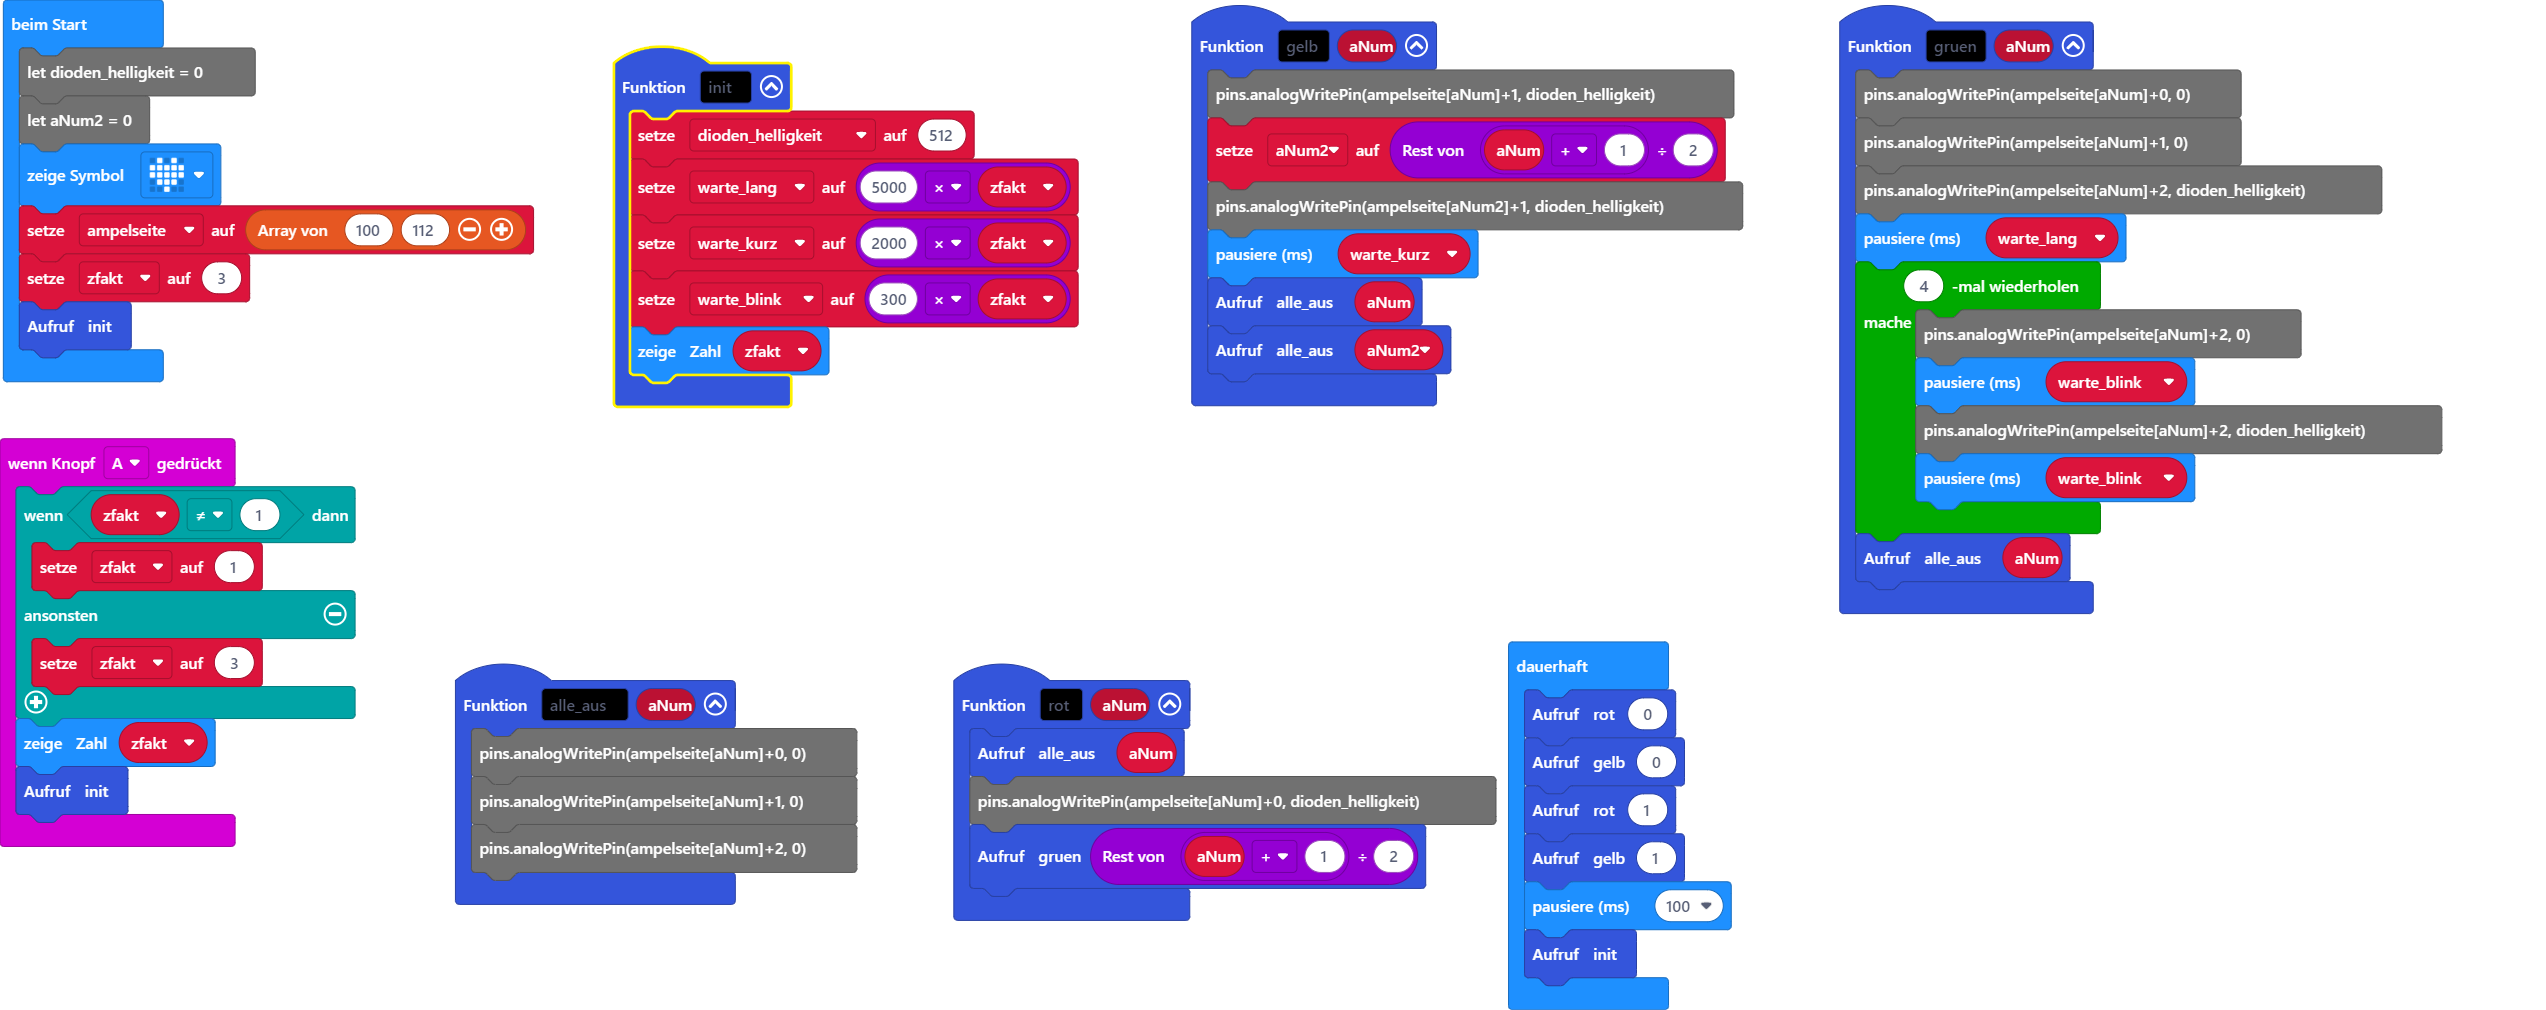
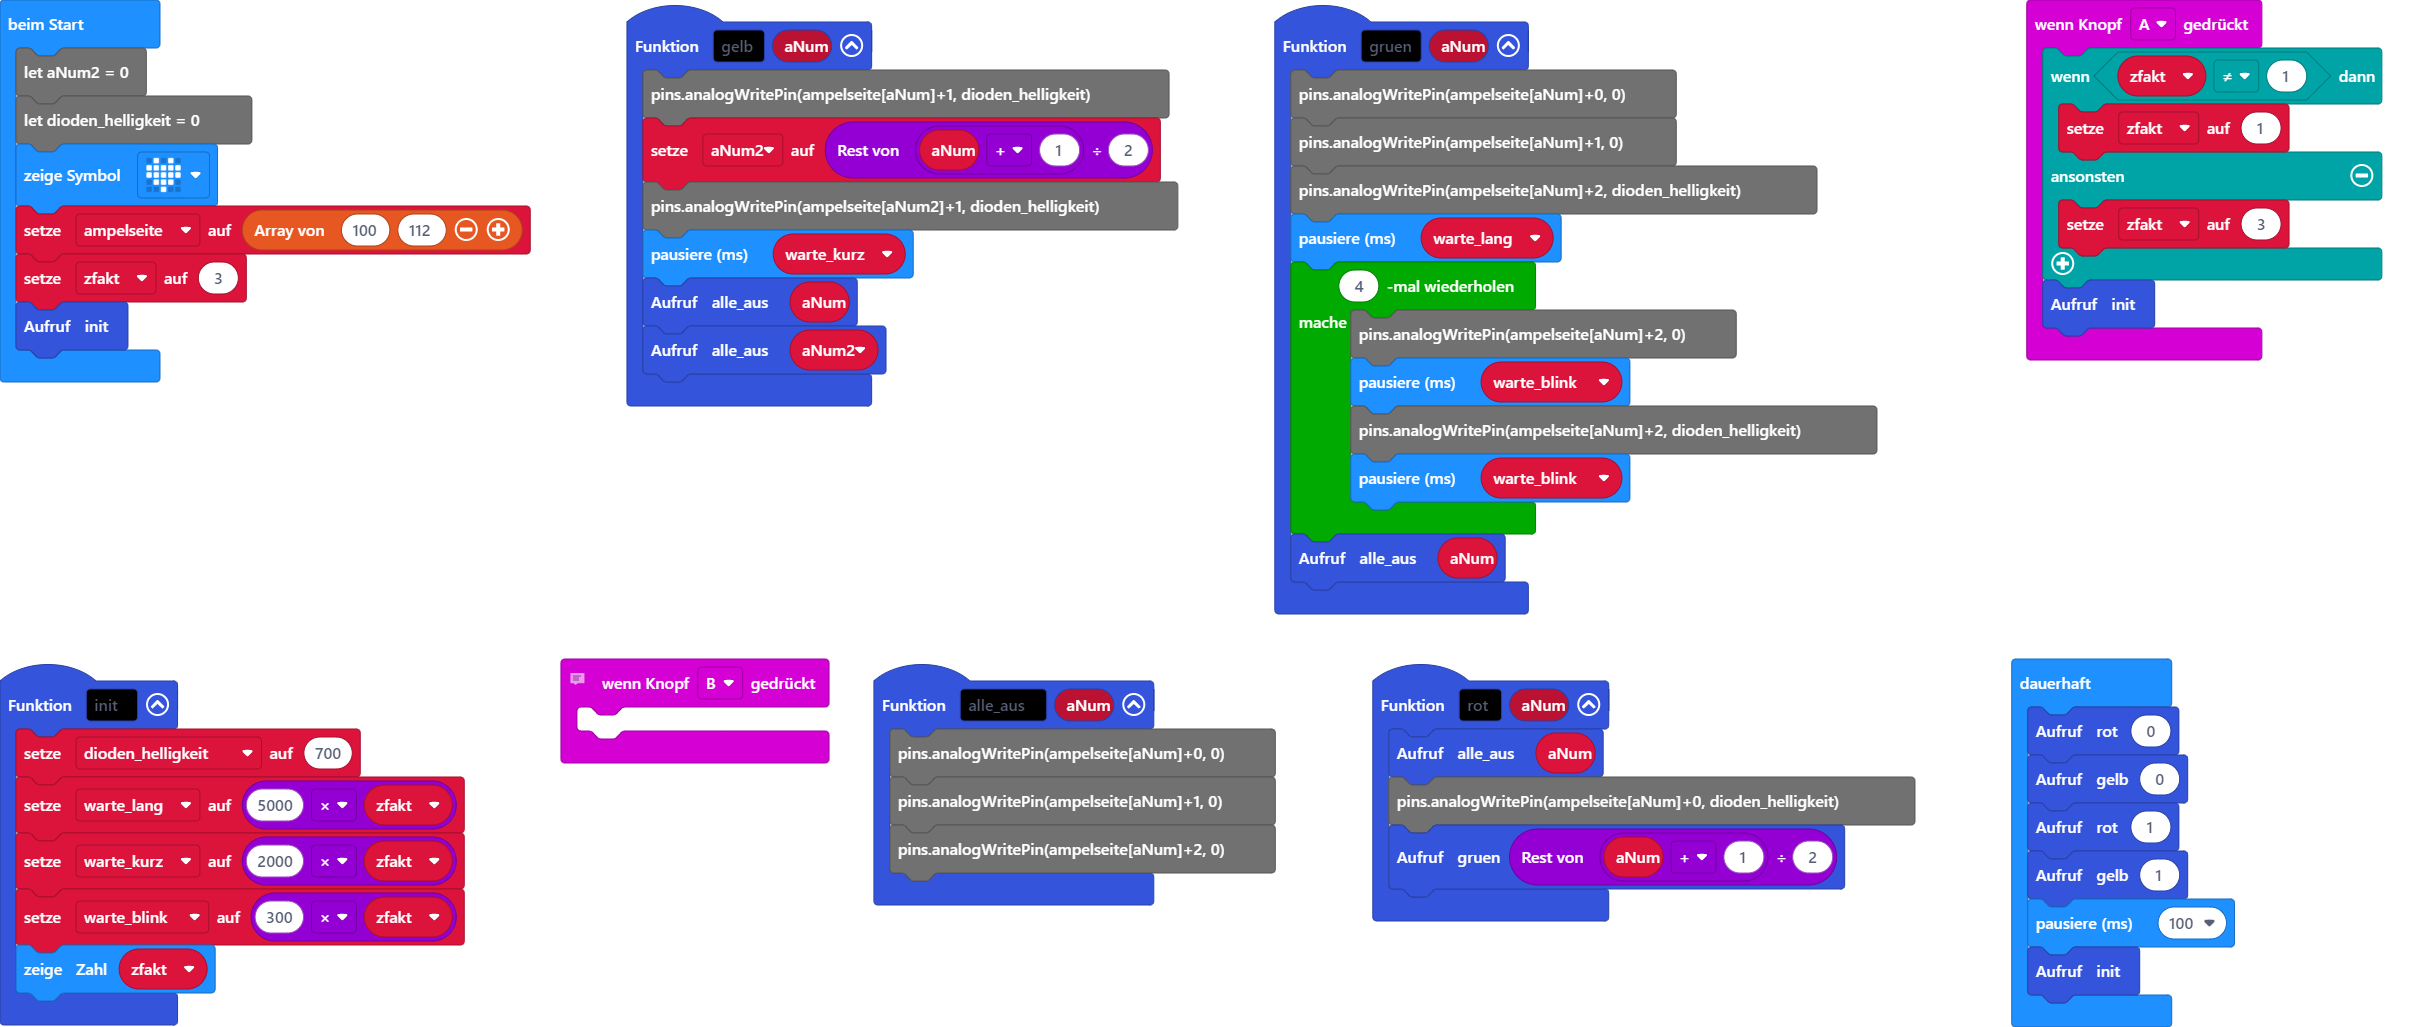
Aktualisiere main.blocks, main.ts

diff --git a/main.ts b/main.ts
@@ -30,11 +30,10 @@ input.onButtonPressed(Button.A, function () {
     } else {
         zfakt = 3
     }
-    basic.showNumber(zfakt)
     init()
 })
 function init () {
-    dioden_helligkeit = 512
+    dioden_helligkeit = 700
     warte_lang = 5000 * zfakt
     warte_kurz = 2000 * zfakt
     warte_blink = 300 * zfakt
@@ -45,12 +44,17 @@ function alle_aus (aNum: number) {
 pins.analogWritePin(ampelseite[aNum]+1, 0)
 pins.analogWritePin(ampelseite[aNum]+2, 0)
 }
+// music.play('b:30', microbit.pin8)
+// music.ringTone(Note.C,microbit.pin8)
+input.onButtonPressed(Button.B, function () {
+	
+})
 let warte_blink = 0
 let warte_lang = 0
 let warte_kurz = 0
 let zfakt = 0
-let dioden_helligkeit = 0
 let aNum2 = 0
+let dioden_helligkeit = 0
 basic.showIcon(IconNames.Heart)
 let ampelseite = [100, 112]
 zfakt = 3
